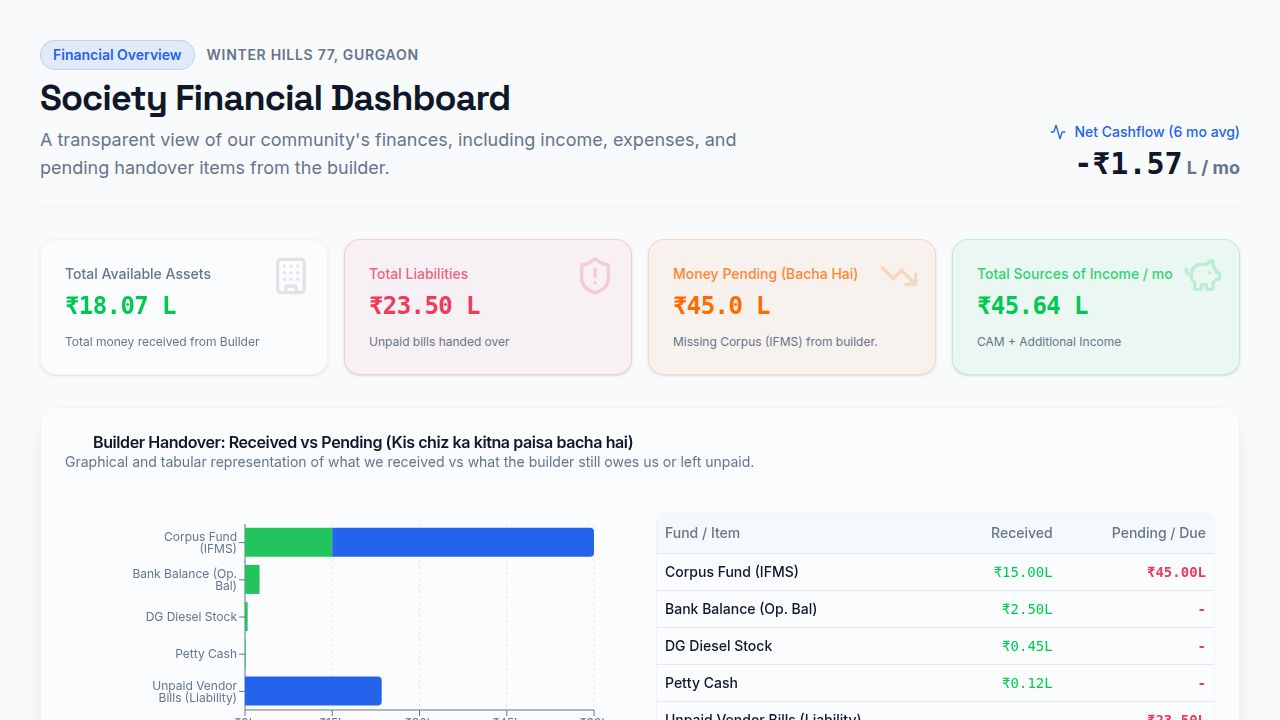
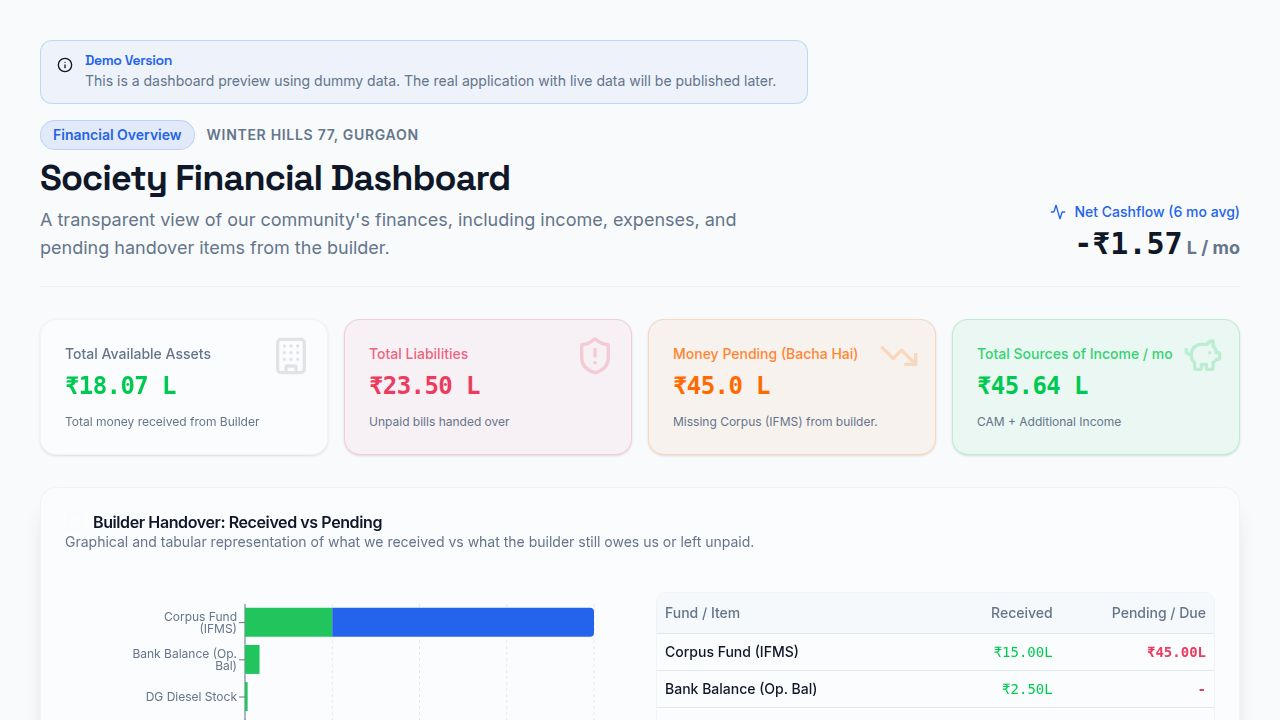
Update builder handover section to remove irrelevant text
Remove descriptive text from the builder handover card title in the dashboard.

Replit-Commit-Author: Agent
Replit-Commit-Session-Id: a7bd7719-be88-4b8f-8165-6cab365c5c36
Replit-Commit-Checkpoint-Type: full_checkpoint
Replit-Commit-Event-Id: 3d88d625-3bd1-4b81-99af-6ff61e4e2ef8
Replit-Commit-Screenshot-Url: https://storage.googleapis.com/screenshot-production-us-central1/ec9a3821-2f34-4f31-9338-f46ec2bc23e4/a7bd7719-be88-4b8f-8165-6cab365c5c36/4OxWddF
Replit-Helium-Checkpoint-Created: true

diff --git a/client/src/pages/dashboard.tsx b/client/src/pages/dashboard.tsx
@@ -253,7 +253,7 @@ export default function Dashboard() {
               <div>
                 <CardTitle className="flex items-center gap-2">
                   <Building className="text-primary-foreground h-5 w-5" />
-                  Builder Handover: Received vs Pending (Kis chiz ka kitna paisa bacha hai)
+                  Builder Handover: Received vs Pending
                 </CardTitle>
                 <CardDescription>Graphical and tabular representation of what we received vs what the builder still owes us or left unpaid.</CardDescription>
               </div>
